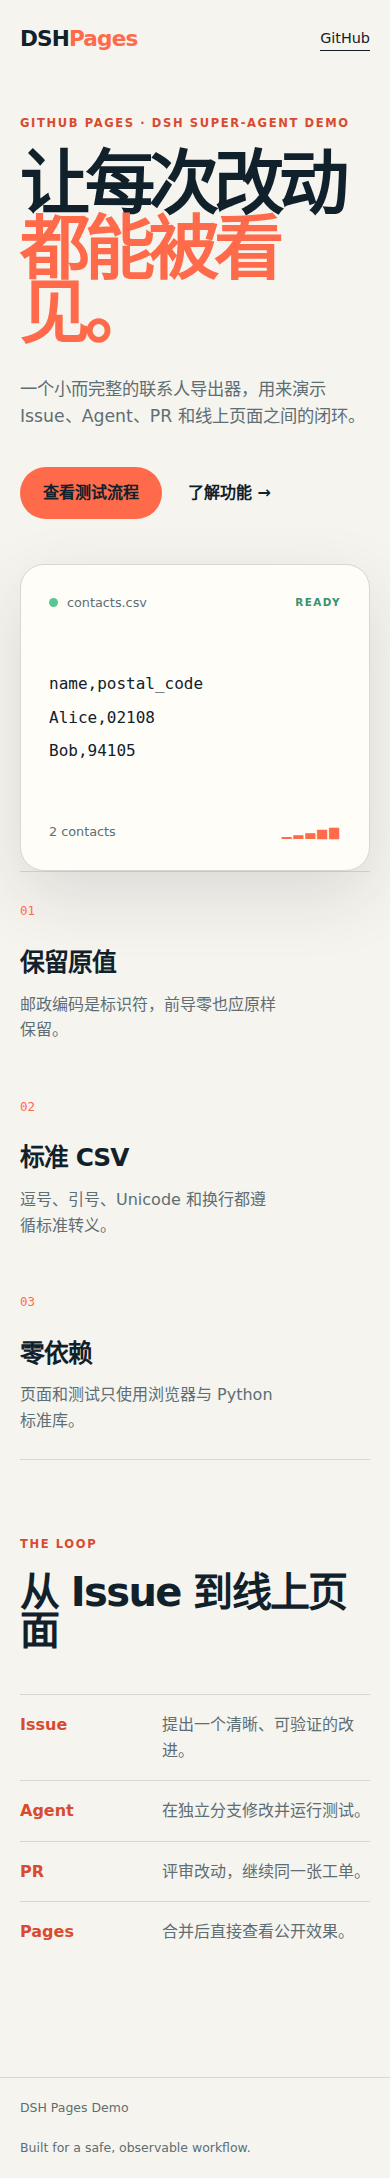
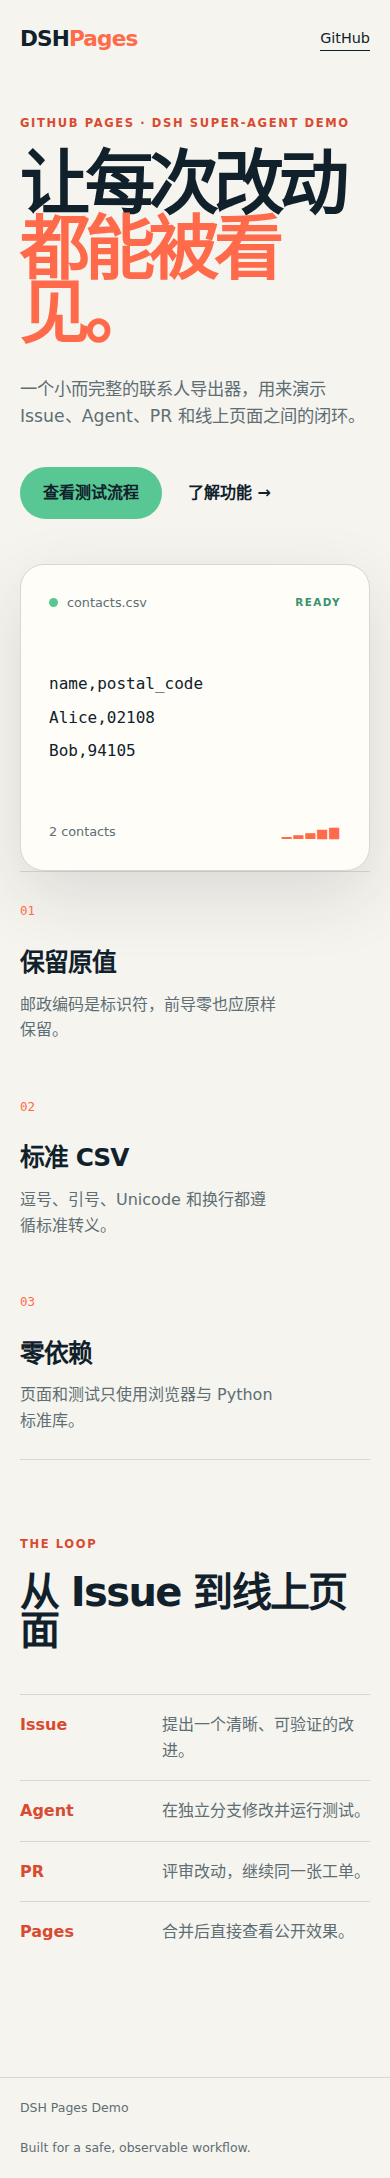
Switch hero CTA to the page's green palette
Review feedback asked for a green button instead of the orange one, and
flagged the previous treatment as not looking right. Use --cta (#58c793),
the green already used by the card status dot, with --ink text at 7.85:1
and --cta-hover (#4fba87) at 6.83:1. Adds a hover-contrast test and
refreshes the after screenshots.

Changed region(s): [[0.0308, 0.1873, 0.4308, 0.2498]]

diff --git a/styles.css b/styles.css
@@ -5,7 +5,8 @@
   --paper: #fffdf8;
   --accent: #ff6b4a;
   --accent-dark: #d94b31;
-  --accent-hover: #f25f3a;
+  --cta: #58c793;
+  --cta-hover: #4fba87;
   --line: #d8d8cf;
   --shadow: 0 24px 70px rgba(16, 33, 43, .12);
 }
@@ -30,8 +31,8 @@ h1 em { color: var(--accent); font-style: normal; }
 .hero-text { max-width: 450px; color: var(--muted); font-size: 1.08rem; }
 .hero-actions { display: flex; align-items: center; gap: 26px; margin-top: 36px; }
 .button { display: inline-block; border-radius: 999px; padding: 13px 23px; text-decoration: none; font-weight: 750; }
-.primary-button { color: var(--ink); background: var(--accent); }
-.primary-button:hover { background: var(--accent-hover); }
+.primary-button { color: var(--ink); background: var(--cta); }
+.primary-button:hover { background: var(--cta-hover); }
 .primary-button:focus-visible { outline: 2px solid var(--ink); outline-offset: 2px; }
 .text-link { color: var(--ink); text-decoration: none; font-weight: 700; }
 .hero-card { background: var(--paper); border: 1px solid var(--line); border-radius: 24px; padding: 28px; box-shadow: var(--shadow); transform: rotate(2deg); }

diff --git a/tests/test_site.py b/tests/test_site.py
@@ -7,21 +7,38 @@ import unittest
 ROOT = Path(__file__).parents[1]
 
 
-def primary_colors(css):
-    variables = dict(re.findall(r"(--[\w-]+)\s*:\s*(#[0-9a-fA-F]{6})\s*;", css))
-    match = re.search(r"\.primary-button\s*\{([^}]*)\}", css)
+def css_variables(css):
+    return dict(re.findall(r"(--[\w-]+)\s*:\s*(#[0-9a-fA-F]{6})\s*;", css))
+
+
+def resolve_color(css, value):
+    variables = css_variables(css)
+    var = re.fullmatch(r"var\((--[\w-]+)\)", value.strip())
+    color = variables[var.group(1)] if var else value.strip()
+    if not re.fullmatch(r"#[0-9a-fA-F]{6}", color):
+        raise ValueError(f"Unsupported color: {color}")
+    return color
+
+
+def rule_declarations(css, pattern):
+    match = re.search(pattern, css)
     if match is None:
-        raise ValueError("Missing primary button style")
-    declarations = dict(re.findall(r"(?:^|;)\s*([\w-]+)\s*:\s*([^;]+)", match.group(1)))
+        raise ValueError(f"Missing style rule: {pattern}")
+    return dict(re.findall(r"(?:^|;)\s*([\w-]+)\s*:\s*([^;]+)", match.group(1)))
 
-    def resolve(value):
-        var = re.fullmatch(r"var\((--[\w-]+)\)", value.strip())
-        color = variables[var.group(1)] if var else value.strip()
-        if not re.fullmatch(r"#[0-9a-fA-F]{6}", color):
-            raise ValueError(f"Unsupported color: {color}")
-        return color
 
-    return resolve(declarations["color"]), resolve(declarations["background"])
+def button_colors(css, selector=r"\.primary-button"):
+    declarations = rule_declarations(css, selector + r"\s*\{([^}]*)\}")
+    return resolve_color(css, declarations["color"]), resolve_color(css, declarations["background"])
+
+
+def primary_colors(css):
+    return button_colors(css)
+
+
+def hover_colors(css):
+    background = rule_declarations(css, r"\.primary-button:hover\s*\{([^}]*)\}")["background"]
+    return primary_colors(css)[0], resolve_color(css, background)
 
 
 def contrast_ratio(first, second):
@@ -58,6 +75,11 @@ class SiteTests(unittest.TestCase):
         css = (ROOT / "styles.css").read_text(encoding="utf-8")
         ratio = contrast_ratio(*primary_colors(css))
         self.assertGreaterEqual(ratio, 4.5, "primary button text must reach a 4.5:1 contrast ratio")
+
+    def test_primary_action_hover_stays_readable(self):
+        css = (ROOT / "styles.css").read_text(encoding="utf-8")
+        ratio = contrast_ratio(*hover_colors(css))
+        self.assertGreaterEqual(ratio, 4.5, "primary button hover text must reach a 4.5:1 contrast ratio")
 
     def test_contrast_calculation(self):
         self.assertAlmostEqual(contrast_ratio("#000000", "#ffffff"), 21)

diff --git a/README.md b/README.md
@@ -12,9 +12,9 @@
 python3 -m unittest discover -v
 ```
 
-页面早期版本保留了有意设置的视觉回归：主按钮文字与背景颜色相同，按钮文字几乎不可见。`tests/test_site.py` 会检测这个问题。该回归已修复：按钮使用 `--ink` 文字配 `--accent` 背景，对比度约 5.85:1，修复前后的截图见 `docs/screenshots/`。
+页面早期版本保留了有意设置的视觉回归：主按钮文字与背景颜色相同，按钮文字几乎不可见。`tests/test_site.py` 会检测这个问题。该回归已修复：主按钮使用 `--ink` 文字配 `--cta`（`#58c793`）绿色背景，对比度约 7.85:1，悬停时换成 `--cta-hover`；修复前后的截图见 `docs/screenshots/`。
 
-当前版本的测试预期为 13 项全部通过；其中按钮对比度用例要求前景与背景的颜色对比度至少 4.5:1。其余链接、资源和 CSV 行为均应通过。
+当前版本的测试预期为 14 项全部通过；其中两个按钮对比度用例分别检查常态与悬停状态，均要求前景与背景的颜色对比度至少 4.5:1。其余链接、资源和 CSV 行为均应通过。
 
 ## GitHub Pages
 
